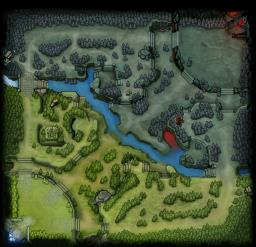
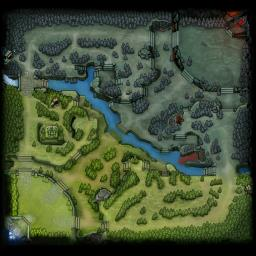
Added a view for heroes tabular data on heroes list. Fixed wrong minimap image. Fixed navbar on top.

diff --git a/DotaDb/Content/Site.css b/DotaDb/Content/Site.css
@@ -5,6 +5,7 @@
 }
 
 body {
+    margin-top: 75px;
     padding-bottom: 200px;
 }
 
@@ -150,4 +151,12 @@ textarea {
     height: 100%;
     width: 100%;
     background: rgba(0, 0, 0, 0.8);
+}
+
+.hero-table td, .hero-table th {
+    text-align: center;
+}
+
+.hero-table td:empty, .hero-table th:empty {
+    border: 0;
 }

diff --git a/DotaDb/Controllers/HeroesController.cs b/DotaDb/Controllers/HeroesController.cs
@@ -16,67 +16,53 @@ namespace DotaDb.Controllers
 
         #region Hero Index
 
-        public ActionResult Index()
+        public ActionResult Index(string tab = "")
         {
             var heroes = db.GetHeroes();
-
-            var str = heroes.Where(x =>
-                x.Value.AttributePrimary == DotaHeroPrimaryAttributeType.STRENGTH.Key
-                && x.Value.Name != "npc_dota_hero_base"
-                && x.Value.Enabled);
-
-            var agi = heroes.Where(x =>
-                x.Value.AttributePrimary == DotaHeroPrimaryAttributeType.AGILITY.Key
-                && x.Value.Name != "npc_dota_hero_base"
-                && x.Value.Enabled);
-
-            var intel = heroes.Where(x =>
-                x.Value.AttributePrimary == DotaHeroPrimaryAttributeType.INTELLECT.Key
-                && x.Value.Name != "npc_dota_hero_base"
-                && x.Value.Enabled);
-
-            List<HeroSelectItemViewModel> strHeroes = new List<HeroSelectItemViewModel>();
-            foreach (var strHero in str)
-            {
-                strHeroes.Add(new HeroSelectItemViewModel()
-                {
-                    HeroId = strHero.Value.HeroId,
-                    Url = strHero.Value.Url,
-                    Name = strHero.Value.Name,
-                    AvatarImagePath = String.Format("http://cdn.dota2.com/apps/dota2/images/heroes/{0}_lg.png", strHero.Value.Name.Replace("npc_dota_hero_", ""))
-                });
-            }
-
-            List<HeroSelectItemViewModel> agiHeroes = new List<HeroSelectItemViewModel>();
-            foreach (var agiHero in agi)
-            {
-                agiHeroes.Add(new HeroSelectItemViewModel()
-                {
-                    HeroId = agiHero.Value.HeroId,
-                    Url = agiHero.Value.Url,
-                    Name = agiHero.Value.Name,
-                    AvatarImagePath = String.Format("http://cdn.dota2.com/apps/dota2/images/heroes/{0}_lg.png", agiHero.Value.Name.Replace("npc_dota_hero_", ""))
-                });
-            }
-
-            List<HeroSelectItemViewModel> intHeroes = new List<HeroSelectItemViewModel>();
-            foreach (var intHero in intel)
-            {
-                intHeroes.Add(new HeroSelectItemViewModel()
-                {
-                    HeroId = intHero.Value.HeroId,
-                    Url = intHero.Value.Url,
-                    Name = intHero.Value.Name,
-                    AvatarImagePath = String.Format("http://cdn.dota2.com/apps/dota2/images/heroes/{0}_lg.png", intHero.Value.Name.Replace("npc_dota_hero_", ""))
-                });
-            }
+            var str = GetHeroesByPrimaryAttribute(heroes, DotaHeroPrimaryAttributeType.STRENGTH.Key);
+            var agi = GetHeroesByPrimaryAttribute(heroes, DotaHeroPrimaryAttributeType.AGILITY.Key);
+            var intel = GetHeroesByPrimaryAttribute(heroes, DotaHeroPrimaryAttributeType.INTELLECT.Key);
 
             HeroSelectViewModel viewModel = new HeroSelectViewModel();
-            viewModel.StrengthHeroes = strHeroes.AsReadOnly();
-            viewModel.AgilityHeroes = agiHeroes.AsReadOnly();
-            viewModel.IntelligenceHeroes = intHeroes.AsReadOnly();
 
-            return View(viewModel);
+            viewModel.StrengthHeroes = TranslateToViewModel(str);
+            viewModel.AgilityHeroes = TranslateToViewModel(agi);
+            viewModel.IntelligenceHeroes = TranslateToViewModel(intel);
+
+            if(tab == "grid")
+            {
+                return View(viewModel);
+            }
+            else if(tab == "table")
+            {
+                return View("IndexTable", viewModel);
+            }
+            else
+            {
+                return View(viewModel);
+            }
+        }
+
+        private IReadOnlyCollection<HeroViewModel> TranslateToViewModel(IEnumerable<KeyValuePair<int, DotaHeroSchemaItem>> heroes)
+        {
+            List<HeroViewModel> heroViewModels = new List<HeroViewModel>();
+
+            foreach(var hero in heroes)
+            {
+                HeroViewModel viewModel = new HeroViewModel();
+                SetupHeroViewModel(hero.Value, viewModel);
+                heroViewModels.Add(viewModel);
+            }
+
+            return heroViewModels;
+        }
+
+        private static IEnumerable<KeyValuePair<int, DotaHeroSchemaItem>> GetHeroesByPrimaryAttribute(IReadOnlyDictionary<int, DotaHeroSchemaItem> heroes, string attributeKey)
+        {
+            return heroes.Where(x =>
+                x.Value.AttributePrimary == attributeKey
+                && x.Value.Name != "npc_dota_hero_base"
+                && x.Value.Enabled);
         }
 
         #endregion Hero Index
@@ -170,6 +156,7 @@ namespace DotaDb.Controllers
             where T : BaseHeroViewModel
         {
             viewModel.Id = hero.HeroId;
+            viewModel.Url = hero.Url.ToLower();
             viewModel.Name = db.GetLocalizationText(hero.Name);
             viewModel.Description = "<from localization -> npc_dota_hero_<heroname>_hype>";
             viewModel.AvatarImagePath = String.Format("http://cdn.dota2.com/apps/dota2/images/heroes/{0}_full.png", hero.Name.Replace("npc_dota_hero_", ""));

diff --git a/DotaDb/ViewModels/HeroViewModel.cs b/DotaDb/ViewModels/HeroViewModel.cs
@@ -1,13 +1,94 @@
 using SourceSchemaParser.Dota2;
 using System;
 using System.Collections.Generic;
-using System.Linq;
-using System.Web;
 
 namespace DotaDb.ViewModels
 {
     public class HeroViewModel : BaseHeroViewModel
     {
+        private const int baseHealth = 150;
+        private const int healthPerStrength = 19;
+        private const int baseMana = 0;
+        private const int manaPerIntellect = 13;
+
         public IReadOnlyCollection<HeroAbilityViewModel> Abilities { get; set; }
+
+        public double GetBaseHealth()
+        {
+            return GetHealth(0);
+        }
+
+        public double GetBaseMana()
+        {
+            return GetMana(0);
+        }
+
+        public double GetHealth(int level)
+        {
+            return Math.Round(baseHealth + (healthPerStrength * (BaseStrength + (level * StrengthGain))));
+        }
+
+        public double GetMana(int level)
+        {
+            return Math.Round(baseMana + (manaPerIntellect * (BaseIntelligence + (level * IntelligenceGain))));
+        }
+
+        public double GetMinDamage(int level)
+        {
+            if (PrimaryAttribute.Key == DotaHeroPrimaryAttributeType.STRENGTH.Key)
+            {
+                return Math.Round(BaseDamageMin + (BaseStrength + (level * StrengthGain)));
+            }
+            else if (PrimaryAttribute.Key == DotaHeroPrimaryAttributeType.INTELLECT.Key)
+            {
+                return Math.Round(BaseDamageMin + (BaseIntelligence + (level * IntelligenceGain)));
+            }
+            else if (PrimaryAttribute.Key == DotaHeroPrimaryAttributeType.AGILITY.Key)
+            {
+                return Math.Round(BaseDamageMin + (BaseAgility + (level * AgilityGain)));
+            }
+            else
+            {
+                return 0;
+            }
+        }
+
+        public double GetMaxDamage(int level)
+        {
+            if (PrimaryAttribute.Key == DotaHeroPrimaryAttributeType.STRENGTH.Key)
+            {
+                return Math.Round(BaseDamageMax + (BaseStrength + (level * StrengthGain)));
+            }
+            else if (PrimaryAttribute.Key == DotaHeroPrimaryAttributeType.INTELLECT.Key)
+            {
+                return Math.Round(BaseDamageMax + (BaseIntelligence + (level * IntelligenceGain)));
+            }
+            else if (PrimaryAttribute.Key == DotaHeroPrimaryAttributeType.AGILITY.Key)
+            {
+                return Math.Round(BaseDamageMax + (BaseAgility + (level * AgilityGain)));
+            }
+            else
+            {
+                return 0;
+            }
+        }
+
+        public double GetArmor(int level)
+        {
+            return Math.Round(BaseStrength + (level * StrengthGain));
+        }
+
+        public double GetStrength(int level)
+        {
+            return Math.Round(BaseStrength + (level * StrengthGain));
+        }
+        public double GetAgility(int level)
+        {
+            return Math.Round(BaseAgility + (level * AgilityGain));
+        }
+        public double GetIntelligence(int level)
+        {
+            return Math.Round(BaseIntelligence + (level * IntelligenceGain));
+        }
     }
 }

diff --git a/DotaDb/ViewModels/HeroSelectViewModel.cs b/DotaDb/ViewModels/HeroSelectViewModel.cs
@@ -7,8 +7,8 @@ namespace DotaDb.ViewModels
 {
     public class HeroSelectViewModel
     {
-        public IReadOnlyCollection<HeroSelectItemViewModel> StrengthHeroes { get; set; }
-        public IReadOnlyCollection<HeroSelectItemViewModel> AgilityHeroes { get; set; }
-        public IReadOnlyCollection<HeroSelectItemViewModel> IntelligenceHeroes { get; set; }
+        public IReadOnlyCollection<HeroViewModel> StrengthHeroes { get; set; }
+        public IReadOnlyCollection<HeroViewModel> AgilityHeroes { get; set; }
+        public IReadOnlyCollection<HeroViewModel> IntelligenceHeroes { get; set; }
     }
 }

diff --git a/DotaDb/ViewModels/BaseHeroViewModel.cs b/DotaDb/ViewModels/BaseHeroViewModel.cs
@@ -9,6 +9,7 @@ namespace DotaDb.ViewModels
     public abstract class BaseHeroViewModel
     {
         public int Id { get; set; }
+        public string Url { get; set; }
         public string Name { get; set; }
         public string Description { get; set; }
         public string AvatarImagePath { get; set; }
